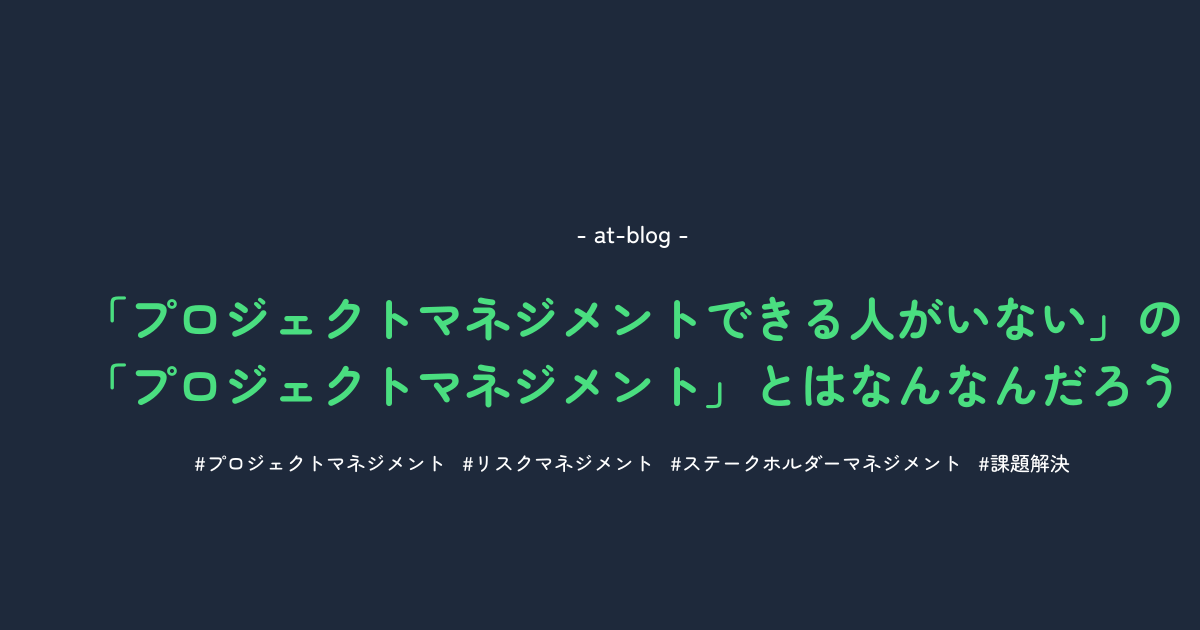
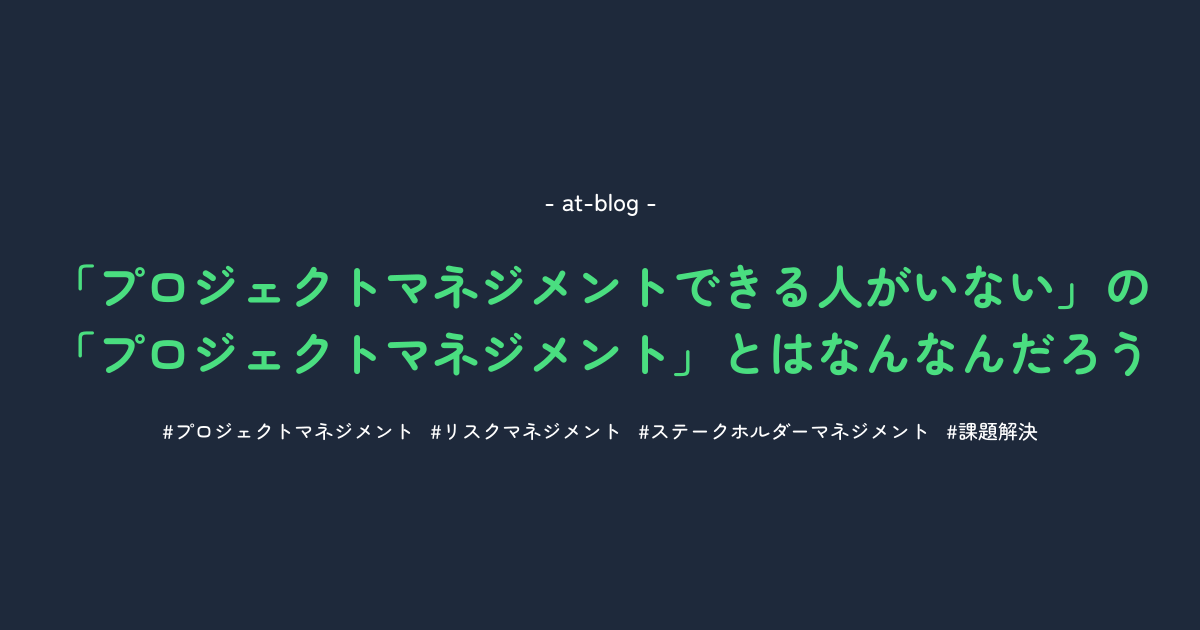
fix-the-collapse-of-og-images (#1726)

diff --git a/utils/generate-ogp/generate-ogp.tsx b/utils/generate-ogp/generate-ogp.tsx
@@ -26,75 +26,6 @@ export default async function generateOgp({
 
 	const parser = loadDefaultJapaneseParser();
 
-	const element = {
-		type: 'div',
-		props: {
-			style: {
-				width: '1200px',
-				height: '630px',
-				display: 'flex',
-				flexDirection: 'column',
-				justifyContent: 'center',
-				alignItems: 'center',
-				backgroundColor: '#1e293b',
-				color: '#4ade80',
-				padding: '2rem',
-			},
-			children: [
-				{
-					type: 'div',
-					props: {
-						style: {
-							fontSize: '1.5rem',
-							fontWeight: 500,
-							marginBottom: '2rem',
-							color: 'white',
-						},
-						children: '- at-blog -',
-					},
-				},
-				{
-					type: 'div',
-					props: {
-						style: {
-							display: 'flex',
-							flexWrap: 'wrap',
-							justifyContent: 'center',
-							fontSize: '3rem',
-							fontWeight: 700,
-							lineHeight: 1.4,
-						},
-						children: parser.parse(title).map((phrase) => ({
-							type: 'span',
-							props: {
-								children: phrase,
-							},
-						})),
-					},
-				},
-				{
-					type: 'div',
-					props: {
-						style: {
-							display: 'flex',
-							flexWrap: 'wrap',
-							gap: '1rem',
-							fontSize: '1.25rem',
-							fontWeight: 500,
-							marginTop: '2rem',
-							color: 'white',
-						},
-						children: tags.map((tag) => ({
-							type: 'span',
-							props: {
-								children: `#${tag}`,
-							},
-						})),
-					},
-				},
-			],
-		},
-	};
 	const svg = await satori(
 		<div
 			style={{
@@ -106,7 +37,6 @@ export default async function generateOgp({
 				alignItems: 'center',
 				backgroundColor: '#1e293b',
 				color: '#4ade80',
-				padding: '2rem',
 			}}
 		>
 			<div
